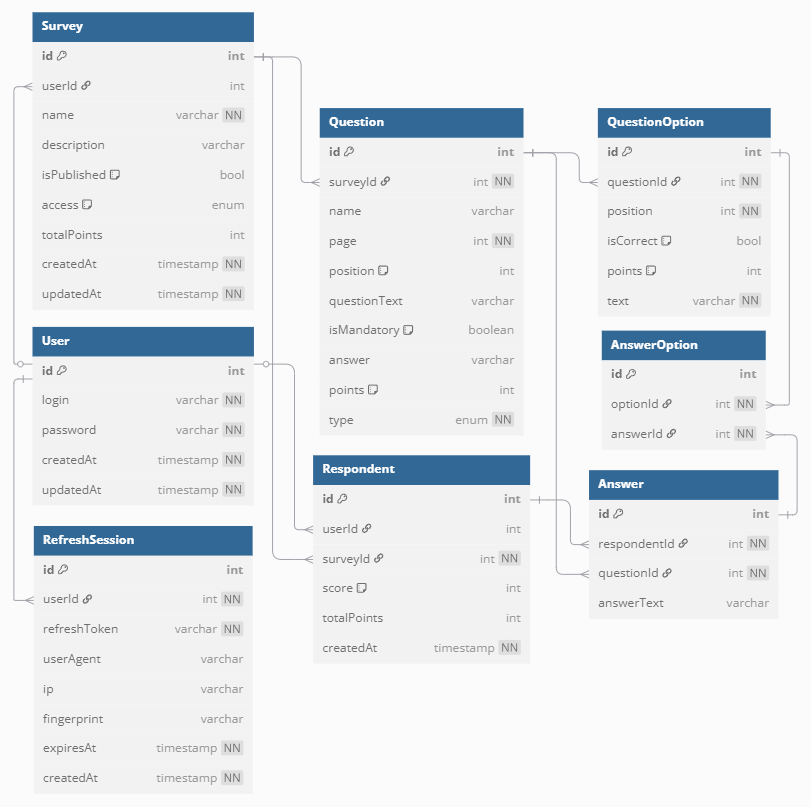
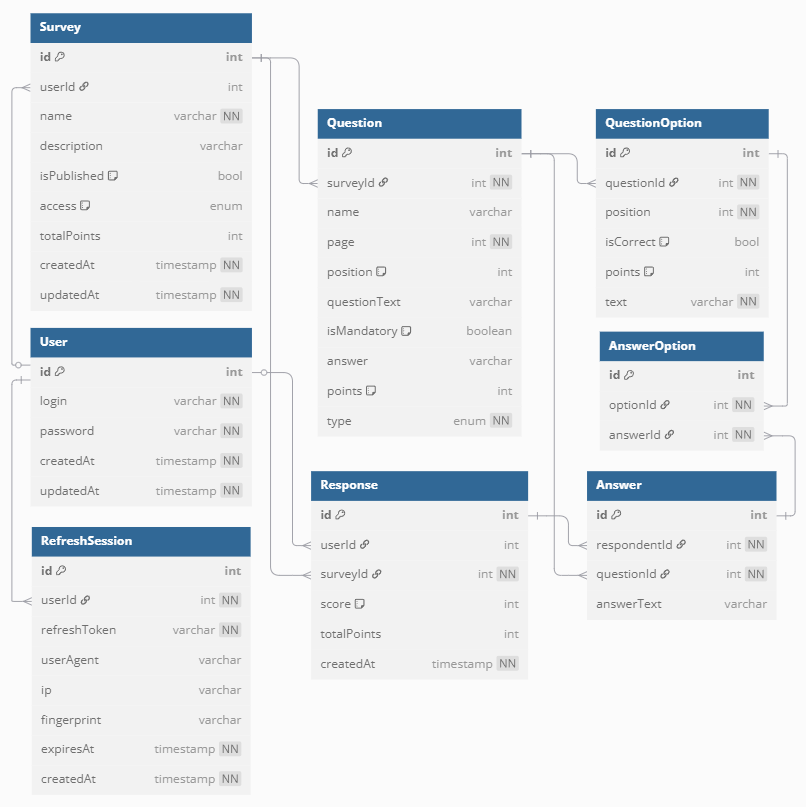
refactor: create questions module, add fixes and change respondents to responses module

diff --git a/src/auth/auth.service.ts b/src/auth/auth.service.ts
@@ -1,4 +1,4 @@
-import { BadRequestException, ForbiddenException, Injectable, Logger } from '@nestjs/common';
+import { BadRequestException, ForbiddenException, Injectable, Logger, NotFoundException } from '@nestjs/common';
 import { ConfigService } from '@nestjs/config';
 import { JwtService } from '@nestjs/jwt';
 import { UsersService } from 'src/users/users.service';
@@ -59,7 +59,7 @@ export class AuthService {
     const existiingSession = await this.findRefreshSession(user, fp);
 
     if (existiingSession){
-      this.deleteRefreshSession(user, fp);
+      await this.deleteRefreshSession(user.id, fp);
     };
     
     // Create tokens
@@ -72,18 +72,6 @@ export class AuthService {
       fp
     );
     return tokens;
-  };
-
-
-  async logout(userId: string, fp: string) {
-    const user = await this.usersService.findById(userId);
-    if (!user) {
-      AuthService.logger.error(`User with id: ${userId} - not found`);
-      throw new Error('User not found');
-    };
-
-    AuthService.logger.log(`Deleting user ${userId} session`);
-    return this.refreshSessionRepository.delete({ user: { id: user.id }, fingerprint: fp });
   };
 
 
@@ -111,7 +99,7 @@ export class AuthService {
     const refreshTokenTTL = this.configService.get<string>('REFRESH_TOKEN_TTL') || '3d'
     const ttl = AuthService.parseTTL(refreshTokenTTL);
 
-    this.refreshSessionRepository.save({
+    await this.refreshSessionRepository.save({
       user,
       refreshToken: hashedRefreshToken,
       userAgent,
@@ -173,7 +161,7 @@ export class AuthService {
       fingerprint,
     );
 
-    this.deleteRefreshSession(user, fingerprint);
+    await this.deleteRefreshSession(user.id, fingerprint);
 
     AuthService.logger.debug(`Created new jwt tokens for user ${user.id}`);
     return tokens;
@@ -236,9 +224,21 @@ export class AuthService {
   };
 
 
-  async deleteRefreshSession(user: UserEntity, fp: string){
-    AuthService.logger.debug(`Deleting session of user id: ${user.id}`);
-    return this.refreshSessionRepository.delete({ user: { id: user.id }, fingerprint: fp });
+  async deleteRefreshSession(userId: string, fp: string){
+    AuthService.logger.log(`Deleting user ${userId} session`);
+    const deleteResult = await this.refreshSessionRepository.delete(
+      { user: { id: userId },
+      fingerprint: fp }
+    );
+
+    if (deleteResult.affected === 0) {
+      AuthService.logger.debug(
+        `Cannot delete session.
+         No session with user id: ${userId} and fingerprint ${fp}`);
+      throw new NotFoundException('Session not found');
+    };
+
+    return deleteResult;
   }
 
 

diff --git a/src/users/entities/user.entity.ts b/src/users/entities/user.entity.ts
@@ -1,6 +1,3 @@
-import { RefreshSessionEntity } from 'src/auth/entities/refresh-session.entity';
-import { RespondentEntity } from 'src/respondents/entities/respondent.entity';
-import { SurveyEntity } from 'src/surveys/entities/survey.entity';
 import { 
   Entity, 
   PrimaryGeneratedColumn, 
@@ -10,6 +7,9 @@ import {
   BaseEntity,
   OneToMany
 } from 'typeorm';
+import { RefreshSessionEntity } from 'src/auth/entities/refresh-session.entity';
+import { SurveyEntity } from 'src/surveys/entities/survey.entity';
+import { ResponseEntity } from 'src/responses/entities/response.entity';
 
 @Entity('users')
 export class UserEntity extends BaseEntity {
@@ -31,12 +31,12 @@ export class UserEntity extends BaseEntity {
   @OneToMany(() => SurveyEntity, (survey) => survey.user)
   surveys: SurveyEntity[];
 
-  @OneToMany(() => RespondentEntity, (respondent) => respondent.user)
-  respondents: RespondentEntity[];
+  @OneToMany(() => ResponseEntity, (response) => response.user)
+  responses: ResponseEntity[];
 
   @OneToMany(
     () => RefreshSessionEntity,
-    (refreshSessions) => refreshSessions.user,
+    (refreshSession) => refreshSession.user,
     { cascade: true, onDelete: 'CASCADE' }
   )
   refreshSessions: RefreshSessionEntity[];

diff --git a/src/responses/entities/answer.entity.ts b/src/responses/entities/answer.entity.ts
@@ -4,11 +4,10 @@ import {
   Column, 
   ManyToOne, 
   BaseEntity,
-  JoinTable,
   OneToMany
 } from 'typeorm';
-import { RespondentEntity } from './respondent.entity';
-import { QuestionEntity } from 'src/surveys/entities/question.entity';
+import { ResponseEntity } from './response.entity';
+import { QuestionEntity } from 'src/questions/entities/question.entity';
 import { AnswerOptionEntity } from './answer-option.entity';
 
 @Entity('answers')
@@ -20,11 +19,11 @@ export class AnswerEntity extends BaseEntity {
   answerText?: string;
 
   @ManyToOne(
-    () => RespondentEntity,
-    (respondent) => respondent.answers,
+    () => ResponseEntity,
+    (response) => response.answers,
     { onDelete: 'CASCADE', nullable: false }
   )
-  respondent: RespondentEntity;
+  response: ResponseEntity;
   
   @ManyToOne(
     () => QuestionEntity,
@@ -33,6 +32,6 @@ export class AnswerEntity extends BaseEntity {
   )
   question: QuestionEntity;
 
-  @OneToMany(() => AnswerOptionEntity, (answerOptions) => answerOptions.answer)
+  @OneToMany(() => AnswerOptionEntity, (answerOption) => answerOption.answer)
   answerOptions: AnswerOptionEntity[];
 };

diff --git a/src/responses/response.module.ts b/src/responses/response.module.ts
@@ -1,20 +1,20 @@
 import { Module } from '@nestjs/common';
-import { RespondentsController } from './respondents.controller';
-import { RespondentsService } from './respondents.service';
+import { ResponsesController } from './response.controller';
+import { ResponsesService } from './response.service';
 import { ApiTags } from '@nestjs/swagger';
 import { TypeOrmModule } from '@nestjs/typeorm';
 import { AnswerEntity } from './entities/answer.entity';
-import { RespondentEntity } from './entities/respondent.entity';
+import { ResponseEntity } from './entities/response.entity';
 import { AnswerOptionEntity } from './entities/answer-option.entity';
 
-@ApiTags('users')
+@ApiTags('responses')
 @Module({
   imports: [TypeOrmModule.forFeature([
+    ResponseEntity,
     AnswerEntity,
-    RespondentEntity,
     AnswerOptionEntity
   ])],
-  controllers: [RespondentsController],
-  providers: [RespondentsService]
+  controllers: [ResponsesController],
+  providers: [ResponsesService]
 })
-export class RespondentsModule {}
+export class ResponsesModule {}

diff --git a/src/surveys/surveys.module.ts b/src/surveys/surveys.module.ts
@@ -3,22 +3,18 @@ import { SurveysService } from './surveys.service';
 import { SurveysController } from './surveys.controller';
 import { TypeOrmModule } from '@nestjs/typeorm';
 import { SurveyEntity } from './entities/survey.entity';
-import { QuestionEntity } from './entities/question.entity';
-import { QuestionOptionEntity } from './entities/question-option.entity';
-import { QuestionsController } from './questions.controller';
-import { QuestionsService } from './questions.service';
 import { UsersModule } from 'src/users/users.module';
+import { SurveyOwnerGuard } from 'src/guards/survey-owner.guards';
 
 @Module({
   imports: [
     TypeOrmModule.forFeature([
       SurveyEntity,
-      QuestionEntity,
-      QuestionOptionEntity
     ]),
     UsersModule
   ],
-  providers: [SurveysService, QuestionsService],
-  controllers: [SurveysController, QuestionsController]
+  providers: [SurveysService, SurveyOwnerGuard],
+  controllers: [SurveysController],
+  exports: [SurveysService]
 })
 export class SurveysModule {}

diff --git a/src/responses/entities/response.entity.ts b/src/responses/entities/response.entity.ts
@@ -11,8 +11,8 @@ import { AnswerEntity } from './answer.entity';
 import { UserEntity } from 'src/users/entities/user.entity';
 import { SurveyEntity } from 'src/surveys/entities/survey.entity';
 
-@Entity('respondents')
-export class RespondentEntity extends BaseEntity {
+@Entity('responses')
+export class ResponseEntity extends BaseEntity {
   @PrimaryGeneratedColumn('uuid')
   id: string;
 
@@ -27,21 +27,21 @@ export class RespondentEntity extends BaseEntity {
 
   @OneToMany(
     () => AnswerEntity,
-    (answer) => answer.respondent,
+    (answer) => answer.response,
     { cascade: true, onDelete: 'CASCADE' }
   )
   answers: AnswerEntity[];
 
   @ManyToOne(
     () => SurveyEntity,
-    (survey) => survey.respondents,
+    (survey) => survey.responses,
     { onDelete: 'CASCADE', nullable: false }
   )
   survey: SurveyEntity;
 
   @ManyToOne(
     () => UserEntity,
-    (user) => user.respondents,
+    (user) => user.responses,
     { onDelete: 'SET NULL', nullable: true }
   )
   user: UserEntity;

diff --git a/src/surveys/surveys.service.ts b/src/surveys/surveys.service.ts
@@ -3,7 +3,7 @@ import { InjectRepository } from '@nestjs/typeorm';
 import { SurveyEntity } from './entities/survey.entity';
 import { DeleteResult, Repository } from 'typeorm';
 import { GetSurveysQueryDto } from './dto/get-surveys-query.dto';
-import { SurveyAccess } from './entities/survey.enum';
+import { SurveyAccess } from './enums/survey.enum';
 import { UpdateSurveyDto } from './dto/update-survey.dto';
 import { UsersService } from 'src/users/users.service';
 
@@ -109,10 +109,10 @@ export class SurveysService {
     // Count responses
     queryBuilder.addSelect(subQuery =>
       subQuery
-        .select('COUNT(respondents.id)', 'respondentsCount')
-        .from('respondents', 'respondents')
-        .where('respondents.surveyId = surveys.id'),
-      'respondentsCount',
+        .select('COUNT(responses.id)', 'responsesCount')
+        .from('responses', 'responses')
+        .where('responses.surveyId = surveys.id'),
+      'responsesCount',
     );
 
     // Pagination

diff --git a/src/surveys/entities/survey.entity.ts b/src/surveys/entities/survey.entity.ts
@@ -8,10 +8,10 @@ import {
   BaseEntity,
   OneToMany
 } from 'typeorm';
-import { SurveyAccess } from './survey.enum';
+import { SurveyAccess } from '../enums/survey.enum';
 import { UserEntity } from 'src/users/entities/user.entity';
-import { QuestionEntity } from './question.entity';
-import { RespondentEntity } from 'src/respondents/entities/respondent.entity';
+import { QuestionEntity } from 'src/questions/entities/question.entity';
+import { ResponseEntity } from 'src/responses/entities/response.entity';
 
 @Entity('surveys')
 export class SurveyEntity extends BaseEntity {
@@ -47,11 +47,11 @@ export class SurveyEntity extends BaseEntity {
   questions: QuestionEntity[];
 
   @OneToMany(
-    () => RespondentEntity,
-    (respondent) => respondent.survey,
+    () => ResponseEntity,
+    (response) => response.survey,
     { cascade: true, onDelete: 'CASCADE' }
   )
-  respondents: RespondentEntity[];
+  responses: ResponseEntity[];
 
   @ManyToOne(
     () => UserEntity,

diff --git a/src/users/users.service.ts b/src/users/users.service.ts
@@ -52,7 +52,7 @@ export class UsersService {
     const user = await this.userRepository
       .createQueryBuilder('users')
       .where('users.id = :id', { id })
-      .select(['users.login'])
+      .select(['users.login', 'users.id'])
       .getOne();
 
     if (!user) {
@@ -90,7 +90,7 @@ export class UsersService {
     const user = await this.userRepository.findOne({ where: { id } });
     if (!user) {
       UsersService.logger.log(`Cannot update user. No user with id: ${id}`);
-      throw new NotFoundException(`User with id ${id} not found`);
+      throw new NotFoundException('User not found');
     };
 
     // Check login
@@ -119,7 +119,7 @@ export class UsersService {
 
     if (deleteResult.affected === 0) {
       UsersService.logger.log(`Cannot delete user. No user with id: ${id}`);
-      throw new NotFoundException(`User with id ${id} not found`);
+      throw new NotFoundException('User not found');
     };
 
     return deleteResult;

diff --git a/src/auth/auth.controller.ts b/src/auth/auth.controller.ts
@@ -1,4 +1,4 @@
-import { Body, Controller, Ip, Post, Headers, Request, UseGuards, Res } from '@nestjs/common';
+import { Body, Controller, Ip, Post, Headers, Request, UseGuards, Res, Delete } from '@nestjs/common';
 import { ApiTags } from '@nestjs/swagger';
 import { AuthService } from './auth.service';
 import { CreateUserDto } from 'src/users/dto/create-user.dto';
@@ -50,13 +50,15 @@ export class AuthController {
 
   
   @UseGuards(AccessTokenGuard)
-  @Post('logout')
+  @Delete('logout')
   async logout(
     @Headers('x-fingerprint') fingerprint: string,
     @Request() req,
     @Res() res: Response
   ) {
-    await this.authService.logout(req.user['sub'], fingerprint);
+    const userId = req.user['sub'];
+
+    await this.authService.deleteRefreshSession(userId, fingerprint);
     res.clearCookie('refreshToken', { path: '/' });
 
     return res.status(200).send({ message: 'Succesfully logout' });

diff --git a/src/app.module.ts b/src/app.module.ts
@@ -6,8 +6,9 @@ import { TypeOrmModule } from '@nestjs/typeorm';
 import { dataSourceOptions } from 'database/db-source';
 import { ConfigModule } from '@nestjs/config';
 import { SurveysModule } from './surveys/surveys.module';
-import { RespondentsModule } from './respondents/respondents.module';
+import { ResponsesModule } from './responses/response.module';
 import { AuthModule } from './auth/auth.module';
+import { QuestionsModule } from './questions/questions.module';
 
 @Module({
   imports: [
@@ -19,8 +20,10 @@ import { AuthModule } from './auth/auth.module';
     }),
     UsersModule,
     SurveysModule,
-    RespondentsModule,
-    AuthModule],
+    ResponsesModule,
+    AuthModule,
+    QuestionsModule
+  ],
   controllers: [AppController],
   providers: [AppService],
 })

diff --git a/src/questions/questions.service.ts b/src/questions/questions.service.ts
@@ -3,10 +3,10 @@ import { DataSource, QueryRunner, Repository } from 'typeorm';
 import { QuestionEntity } from './entities/question.entity';
 import { InjectRepository } from '@nestjs/typeorm';
 import { CreateQuestionDto } from './dto/create-question.dto';
-import { SurveyEntity } from './entities/survey.entity';
+import { SurveyEntity } from '../surveys/entities/survey.entity';
 import { QuestionOptionEntity } from './entities/question-option.entity';
 import { UpdateQuestionDto } from './dto/update-question.dto';
-import { QuestionType } from './entities/survey.enum';
+import { QuestionType } from './enums/question.enum';
 import { UpdateQuestionOptionDto } from './dto/update-question-option.dto';
 
 @Injectable()
